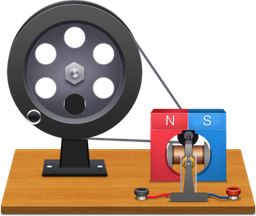
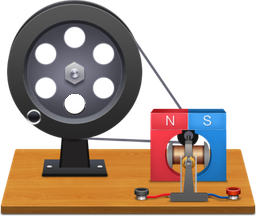
fix(motor-card): 第6孔改回真镂空（搬邻孔alpha形状），白底上压黑支撑柱，孔转到柱前才显黑

Changed region(s): [[0.25, 0.4167, 0.3438, 0.5278]]

diff --git a/src/lab/simple3d/BuilderSVG.jsx b/src/lab/simple3d/BuilderSVG.jsx
@@ -616,9 +616,13 @@ function MotionLayer({ items }) {
                 </linearGradient>
               </defs>
               <g clipPath={`url(#${cid})`}>
-                {/* 图标里的 5 个孔是"真镂空"(alpha=0)，卡片的孔亮是因为露出白底；
-                    这里先垫一层白圆，转过去的孔才始终是白的，否则只会透出底下静止的旧孔。 */}
+                {/* 图标里的 6 个孔都是"真镂空"(alpha=0)，卡片的孔亮是因为露出白底；
+                    这里先垫一层白圆，转过去的孔才始终是白的，否则只会透出底下静止的旧孔。
+                    ★ 但孔背后不是到处都白：轮子后面立着黑色支撑柱（柱子在图标里 x60..88 源、卡内 x46.9..68.8，
+                    一直顶到轮轴）。所以白圆上再压一条黑柱，孔转到柱子前面时看到黑柱、转到别处看到白底 ——
+                    跟实拍一致（原来那只孔在照片里被烤成实心黑，转过去也一直是黑的，见 scripts/_bake_motor_hole.py）。 */}
                 <circle cx={M.cx} cy={M.cy} r={M.r - 1} fill="#ffffff" />
+                <path d="M50.2 58.2 L65.8 58.2 L68.8 106 L46.9 106 Z" fill="#191a1f" />
                 <image href={figURL('motor_c.png')} x="0" y="0" width="200" height="169"
                   preserveAspectRatio="none"
                   transform={`rotate(${deg.toFixed(1)} ${M.cx} ${M.cy})`} />

diff --git a/器材1比1还原_改造计划_2026-11-11.md b/器材1比1还原_改造计划_2026-11-11.md
@@ -1820,3 +1820,13 @@ CSS 改 `.esb-wirelayer z-index:2`（原 3）、`.esb-partlayer z-index:3`（原
 转到**正上/正下**时速度沿磁场方向（平行 B）⇒ 瞬时零切割、零转矩——这就是单线圈的"死点/中性面"，
 和电动机-发电机可逆性（F=IL×B ⟷ ε=BLv）是同一件事。
 
+**⑤ 第 6 个孔"永远是黑的"（用户一眼看穿）**：实拍里 6 只孔都是**通透**的，其中一只之所以是黑，
+是因为轮子后面正好立着黑色支撑柱——孔转到柱子前面看见黑柱、转到别处看见白底。原图却把这孔烤成了
+**不透明黑**（`motor_c.png` 该孔 alpha=255，另 5 只 alpha=0、r≈8.6），于是跟着轮盘转也一直是黑的。两处一起改：
+- **资产**：按"顶上那只真孔的 alpha 形状"整体搬到第 6 孔位置（不按半径硬挖，硬挖会留下锯齿状残边，第一版就是这么废掉的），
+  只搬 alpha、周边盘面纹理不动 ⇒ 6 只孔一模一样（`scripts/_bake_motor_hole.py`，脚本被 gitignore 不提交，图已改）。
+- **渲染**：白色底圆上压一条**黑柱**（图标里柱子实测 x60..88 源 → 卡内 x46.9..68.8，顶端顶到轮轴；
+  多边形 `M50.2 58.2 L65.8 58.2 L68.8 106 L46.9 106`），再叠旋转图 ⇒ 孔转到柱子前面看到黑柱、转到别处看到白底。
+- 验收：`m32-wheelf2.png`（5×）底部那只孔是"一半黑柱一半白底"的半只黑孔，跟实拍一模一样；
+  4 帧轮盘内"近黑像素"数 707/831/1141/1022（随孔与柱重叠面积变），不再是一个恒定的黑孔。
+
